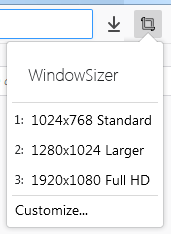
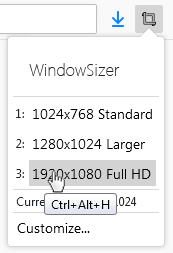
Custom shortcuts!
Shortcuts sidplayed on options page now reflect user-defined values
Shotcut keys shown as tooltip on toolbar menu items
Updated screenshots

diff --git a/common.js b/common.js
@@ -1,4 +1,4 @@
-const PREFIX_PRESET = "preset-";
+const PREFIX_PRESET = "preset-"; // Must match the one in options.js
 
 async function applyPreset(presetId)
 {
@@ -27,4 +27,23 @@ async function resizeWindow(newWidth, newHeight)
 
    let currentWindow = await browser.windows.getCurrent();
    browser.windows.update(currentWindow.id, updateInfo);
+}
+
+async function getShortcutKey(commandName)
+{
+   console.log("(common) retrieving shortcut for " + commandName);
+
+   let shortcutKey = "(none)";
+
+   let commands = await browser.commands.getAll();
+   for(let command of commands)
+   {
+      if(command.name == commandName)
+      {
+         shortcutKey = command.shortcut;
+         break;
+      }
+   }
+
+   return shortcutKey;
 }

diff --git a/options.html b/options.html
@@ -13,7 +13,7 @@
    <table id="presetsList">
     <tr>
      <th></th>
-     <th>Hotkey</td>
+     <th>Shortcut</td>
      <th>Width</th>
      <th>Height</th>
      <th>Name</th>
@@ -33,6 +33,9 @@
   </form>
   <div id="currentSizeContainer">
    Current Window Size: <span id="currentSize"></span> (if size isn't auto updating, please refresh the page)
+  </div>
+  <div>
+   Shortcut keys can be changed in the add-ons manager (<a href="https://support.mozilla.org/en-US/kb/manage-extension-shortcuts-firefox">more info</a>)
   </div>
  </fieldset>
  <script src="options.js"></script>

diff --git a/toolbar_menu.js b/toolbar_menu.js
@@ -15,6 +15,8 @@ async function updateMenuWithPresets()
          numberText = (i + 1) + ": ";
       }
 
+      let shortcutKey = await getShortcutKey(PREFIX_PRESET + (i + 1));
+
       let tr = document.createElement("tr");
 
       let tdN = document.createElement("td");
@@ -27,6 +29,7 @@ async function updateMenuWithPresets()
       let a = document.createElement("a");
       a.href = "#";
       a.id = PREFIX_PRESET + presets[i].id;
+      a.title = shortcutKey;
       a.appendChild(document.createTextNode(linkText));
       tdL.appendChild(a);
 

diff --git a/options.js b/options.js
@@ -1,3 +1,4 @@
+const PREFIX_PRESET = "preset-"; // Must match the one in common.js
 const PREFIX_EDIT = "edit-";
 const PREFIX_REMOVE = "remove-";
 const PREFIX_SAVE = "save-";
@@ -174,7 +175,7 @@ async function displayPresets()
       tr.appendChild(tdP);
 
       let tdK = document.createElement("td");
-      tdK.textContent = "Alt+" + presetNum;
+      tdK.textContent = await browser.extension.getBackgroundPage().getShortcutKey(PREFIX_PRESET + presetNum);
       tr.appendChild(tdK);
 
       let tdW = document.createElement("td");
